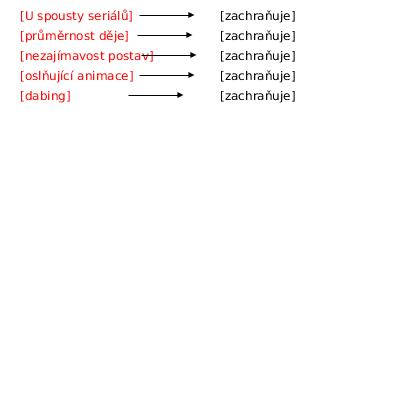
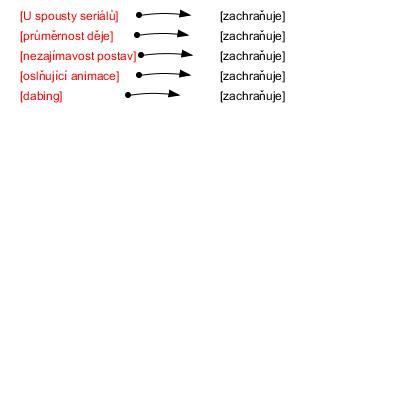
vylepsene sipky

Changed region(s): [[0.03, 0.0, 0.48, 0.27], [0.54, 0.03, 0.75, 0.27]]

diff --git a/Syntactic Bush/src/frontend/syntacticbush.html b/Syntactic Bush/src/frontend/syntacticbush.html
@@ -1,0 +1,11 @@
+<HTML>
+<HEAD>
+<TITLE> A Simple Program </TITLE>
+</HEAD>
+<BODY>
+
+Here is the output of my program:
+<APPLET CODE="SyntacticBushApplet.class">
+</APPLET>
+</BODY>
+</HTML>

diff --git a/Syntactic Bush/src/syntactic/bush/Sentence.java b/Syntactic Bush/src/syntactic/bush/Sentence.java
@@ -7,9 +7,11 @@
 package syntactic.bush;
 
 import java.io.File;
+import java.io.FileInputStream;
 import java.io.FileNotFoundException;
 import java.io.FileOutputStream;
 import java.io.IOException;
+import java.net.URI;
 import java.util.Arrays;
 import java.util.logging.Level;
 import java.util.logging.Logger;
@@ -26,11 +28,13 @@ import javax.xml.transform.TransformerException;
 import javax.xml.transform.TransformerFactory;
 import javax.xml.transform.dom.DOMSource;
 import javax.xml.transform.stream.StreamResult;
+import org.apache.batik.dom.svg.SAXSVGDocumentFactory;
 import org.apache.batik.dom.svg.SVGDOMImplementation;
 import org.apache.batik.transcoder.TranscoderException;
 import org.apache.batik.transcoder.TranscoderInput;
 import org.apache.batik.transcoder.TranscoderOutput;
 import org.apache.batik.transcoder.image.JPEGTranscoder;
+import org.apache.batik.util.XMLResourceDescriptor;
 import org.omg.CORBA.portable.OutputStream;
 import org.w3c.dom.DOMImplementation;
 
@@ -291,9 +295,9 @@ public class Sentence {
         String svgNS = SVGDOMImplementation.SVG_NAMESPACE_URI;
         Document doc = domi.createDocument(svgNS, "svg", null);
         Element svgRoot = doc.getDocumentElement();
-        svgRoot.setAttributeNS(null, "width", "400");
-        svgRoot.setAttributeNS(null, "heigth", "400");
-        svgRoot.appendChild(createDefs(doc, svgNS));
+        svgRoot.setAttributeNS(null, "width", "100%");
+        svgRoot.setAttributeNS(null, "heigth", "100%");
+        svgRoot.appendChild(createDefs(doc,svgNS));
         int y = 20;
         int x = 20;
         System.out.println(idSentence.length);
@@ -317,9 +321,12 @@ public class Sentence {
                 int toXCor = x + from.length() - 50;
                 int toYCor = y - 5;
                 Element path = doc.createElementNS(svgNS,"path");
-                path.setAttributeNS(null, "d", "M " + fromXCor + " " + fromYCor + "L " + toXCor + " " + toYCor);
+                float aCx = fromXCor + 21.3561706542969f;
+                String curvedPath = "M " + fromXCor + " " + fromYCor + "A " + aCx + " " + aCx + " 0 0 1 " + toXCor + " " + toYCor;
+                //path.setAttributeNS(null, "d", "M " + fromXCor + " " + fromYCor + "L " + toXCor + " " + toYCor);
+                path.setAttributeNS(null, "d", curvedPath);
                 path.setAttributeNS(null, "stroke", "black");
-                path.setAttributeNS(null,"style","marker-end: url(#Triangle)");
+                path.setAttributeNS(null,"style","fill: none; stroke-width: 1px; vector-effect: non-scaling-stroke; marker-start: url(#Circle); marker-end: url(#Triangle)");
                 svgRoot.appendChild(textFrom);
                 svgRoot.appendChild(path);
                 svgRoot.appendChild(textTo);
@@ -354,21 +361,44 @@ public class Sentence {
 
     }
     
+    /**
+     * Vytvori tvar konca sipky
+     * @param doc
+     * @param svgNS
+     * @return 
+     */
     private Element createDefs(Document doc, String svgNS){
         Element defs = doc.createElementNS(svgNS, "defs");
-        Element marker = doc.createElementNS(svgNS, "marker");
-        marker.setAttributeNS(null, "id", "Triangle");
-        marker.setAttributeNS(null, "viewBox", "0 0 10 10");
-        marker.setAttributeNS(null, "refX", "1");
-        marker.setAttributeNS(null, "refY", "5");
-        marker.setAttributeNS(null, "markerWidth", "6");
-        marker.setAttributeNS(null, "markerHeight", "6");
-        marker.setAttributeNS(null, "orient", "auto");
+        Element markerTriangle = doc.createElementNS(svgNS, "marker");
+        markerTriangle.setAttributeNS(null, "id", "Triangle");
+        markerTriangle.setAttributeNS(null, "viewBox", "-15 -5 20 20");
+        markerTriangle.setAttributeNS(null, "refX", "-3");
+        markerTriangle.setAttributeNS(null, "refY", "0");
+        markerTriangle.setAttributeNS(null, "markerWidth", "16");
+        markerTriangle.setAttributeNS(null, "markerHeight", "20");
+        markerTriangle.setAttributeNS(null, "orient", "auto");
         Element path = doc.createElementNS(svgNS, "path");
-        path.setAttributeNS(null, "d", "M 0 0 L 10 5 L 0 10 z");
-        marker.appendChild(path);
-        defs.appendChild(marker);
+        path.setAttributeNS(null, "d", "M -15 -5 L 0 0 L -15 5 z");
+        markerTriangle.appendChild(path);
+        Element markerCircle = doc.createElementNS(svgNS, "marker");
+        markerCircle.setAttributeNS(null, "id", "Circle");
+        markerCircle.setAttributeNS(null, "viewBox", "-5 -5 10 10");
+        markerCircle.setAttributeNS(null, "refX", "0");
+        markerCircle.setAttributeNS(null, "refY", "0");
+        markerCircle.setAttributeNS(null, "markerWidth", "6");
+        markerCircle.setAttributeNS(null, "markerHeight", "6");
+        markerCircle.setAttributeNS(null, "orient", "auto");
+        Element circle = doc.createElementNS(svgNS, "circle");
+        circle.setAttributeNS(null, "cx", "0");
+        circle.setAttributeNS(null, "cy", "0");
+        circle.setAttributeNS(null, "r", "5");
+        circle.setAttributeNS(null, "fill", "black");
+        markerCircle.appendChild(circle);
+        defs.appendChild(markerTriangle);
+        defs.appendChild(markerCircle);
         return defs;
+        
     }
+    
 
 }
